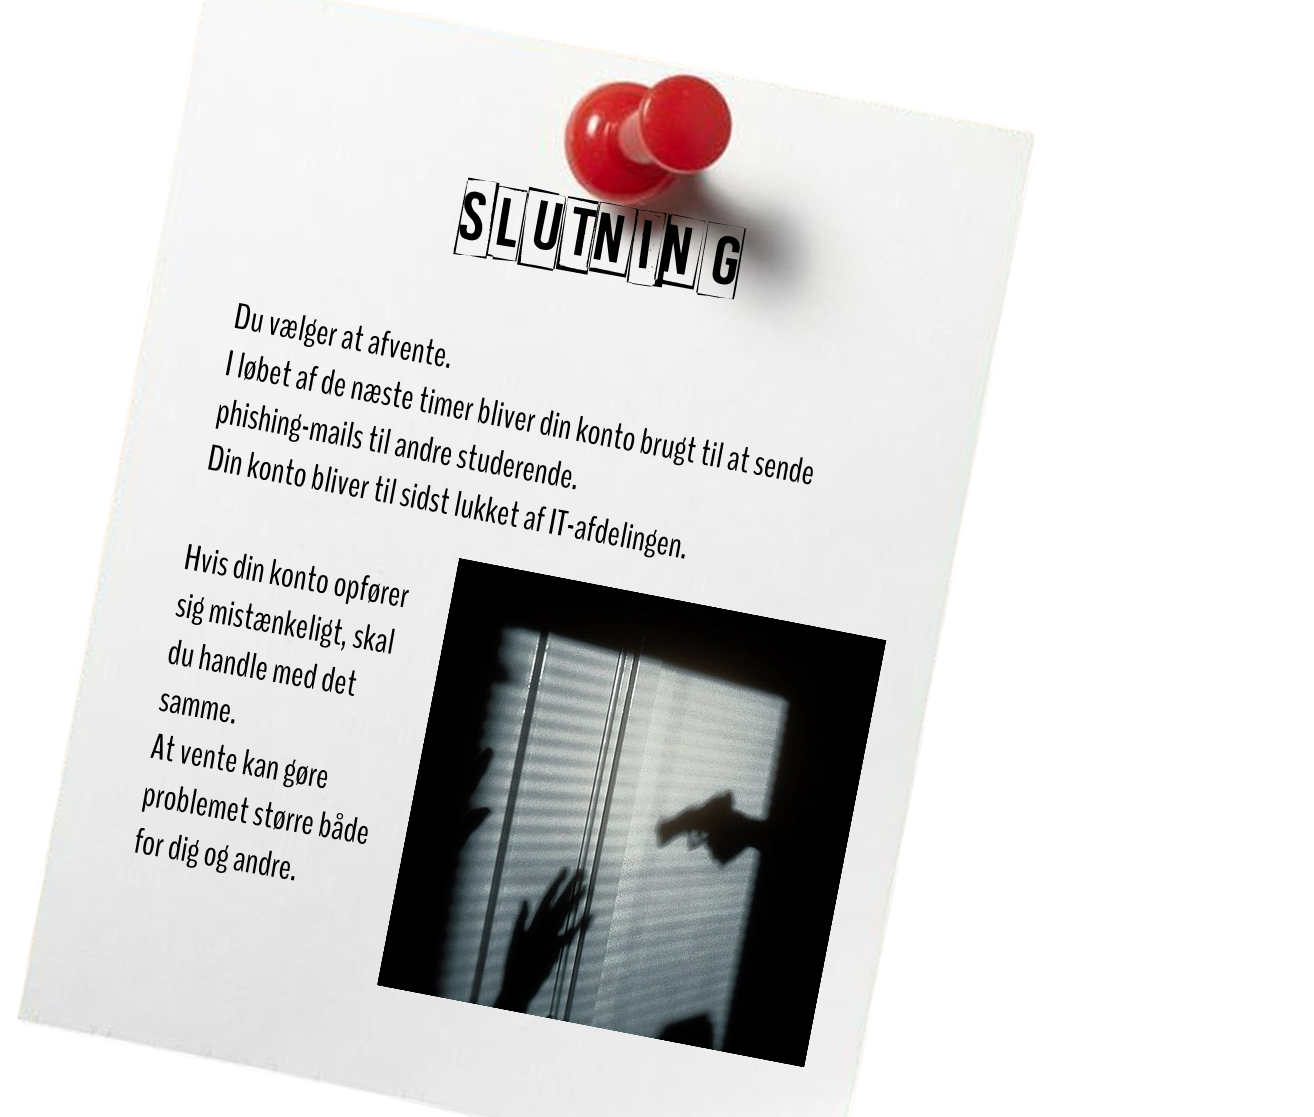
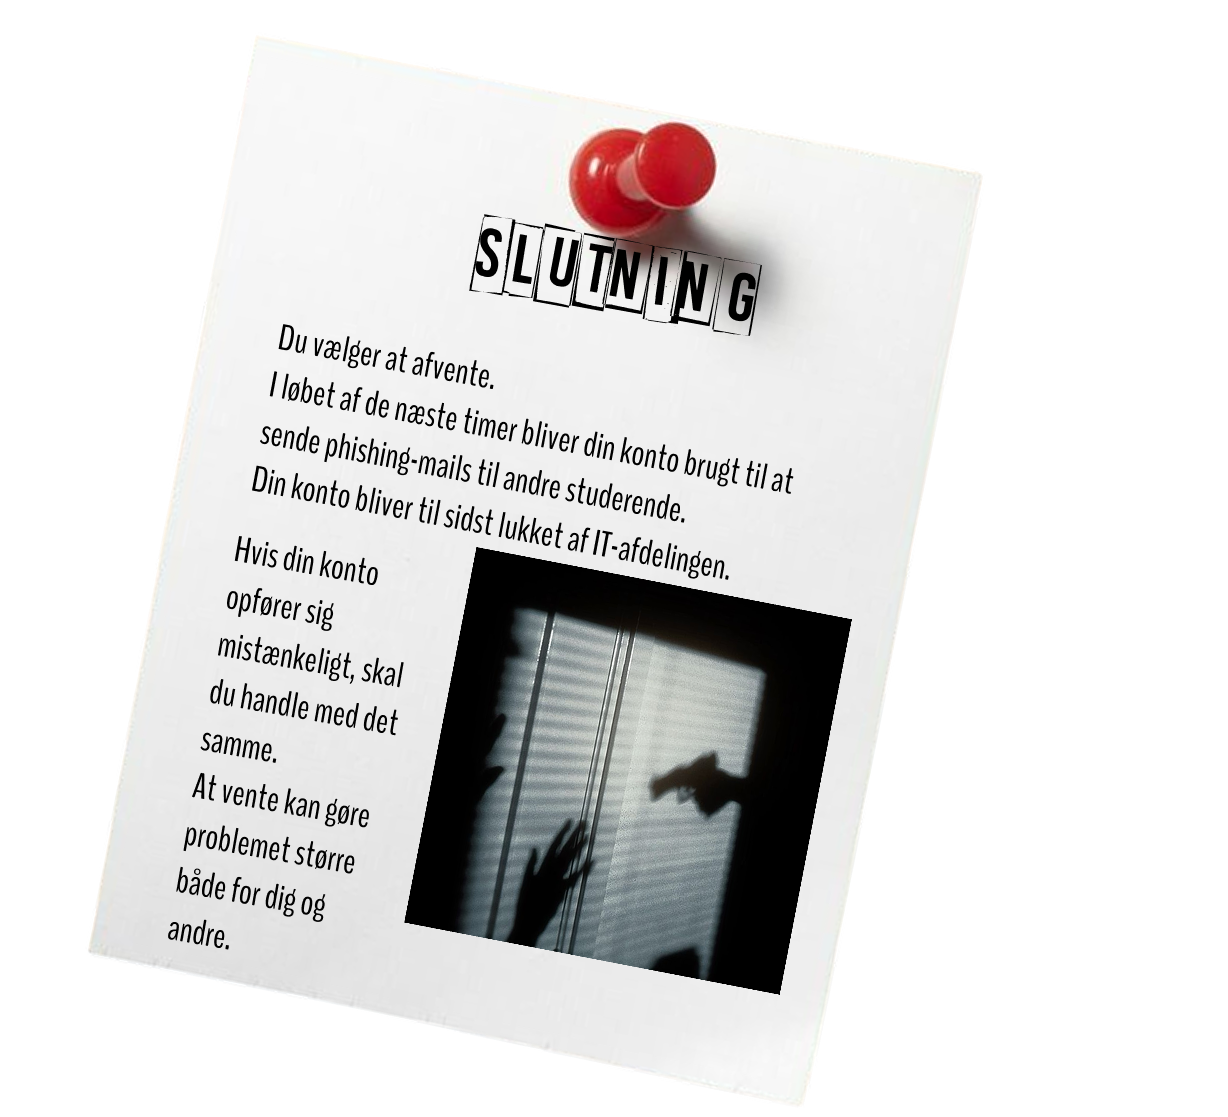
Tilføjelse af sticky notes

diff --git a/scss.css/style.scss b/scss.css/style.scss
@@ -110,25 +110,20 @@ body {
   transition: transform 0.2s ease, box-shadow 0.2s ease, opacity 0.2s ease;
 
   // KNAPPENÅL PÅ ALLE KNAPPER
-&::before {
-  content: "";
-
-  position: absolute;
-
-  width: 140px;
-  height: 140px;
-
- top: -85px;
-left: -32px;
-
-  background-image: url("../img/knappenaal.png");
-  background-repeat: no-repeat;
-  background-position: center;
-  background-size: 100%;
-
-  pointer-events: none;
-  z-index: 10;
-}
+  &::before {
+    content: "";
+    position: absolute;
+    width: 140px;
+    height: 140px;
+    top: -85px;
+    left: -32px;
+    background-image: url("../img/knappenaal.png");
+    background-repeat: no-repeat;
+    background-position: center;
+    background-size: 100%;
+    pointer-events: none;
+    z-index: 10;
+  }
 
   &:hover {
     transform: scale(1.06);
@@ -144,14 +139,37 @@ left: -32px;
   }
 }
 
-// SLUTNINGER — bruger samme layout for nu
+// STICKY NOTES TIL SLUTNINGER
+.scene__sticky {
+  position: absolute;
+  right: 8%;
+  top: 22%;
+  width: 330px;
+  max-width: 30vw;
+  z-index: 3;
+}
+
+// SLUTNINGER
 .scene--endingA1,
 .scene--endingA2,
 .scene--endingB1,
 .scene--endingB2 {
+  .scene__image {
+    left: 8%;
+    max-width: 48vw;
+    max-height: 76vh;
+  }
+
+  .scene__sticky {
+    right: 8%;
+    top: 20%;
+  }
+
   .scene__buttons {
-    left: 68%;
-    top: 58%;
+    left: auto;
+    right: 13%;
+    top: 72%;
+    transform: none;
   }
 }
 
@@ -171,6 +189,11 @@ left: -32px;
     min-width: 180px;
     font-size: 14px;
     padding: 10px 18px;
+  }
+
+  .scene__sticky {
+    width: 220px;
+    right: 5%;
   }
 
   .scene--start {

diff --git a/scss.css/script.js b/scss.css/script.js
@@ -38,6 +38,7 @@ const scenes = {
 
   endingA1: {
     image: "img/slutning.a1.png",
+    sticky: "img/stickynote.a1.png",
     background: "cork-bg",
     choices: [
       { text: "Prøv igen", nextScene: "start" }
@@ -46,6 +47,7 @@ const scenes = {
 
   endingA2: {
     image: "img/slutning.a2.png",
+    sticky: "img/stickynote.a2.png",
     background: "cork-bg",
     choices: [
       { text: "Prøv igen", nextScene: "start" }
@@ -54,6 +56,7 @@ const scenes = {
 
   endingB1: {
     image: "img/slutning.b1.png",
+    sticky: "img/stickynote.b1.png",
     background: "cork-bg",
     choices: [
       { text: "Prøv igen", nextScene: "start" }
@@ -62,6 +65,7 @@ const scenes = {
 
   endingB2: {
     image: "img/slutning.b2.png",
+    sticky: "img/stickynote.b2.png",
     background: "cork-bg",
     choices: [
       { text: "Prøv igen", nextScene: "start" }
@@ -84,6 +88,8 @@ function renderScene(sceneKey) {
   sceneContainer.innerHTML = `
     <div class="scene__wrapper">
       <img class="scene__image" src="${currentScene.image}" alt="">
+
+      ${currentScene.sticky ? `<img class="scene__sticky" src="${currentScene.sticky}" alt="">` : ""}
 
       <div class="scene__buttons">
         ${buttonsHTML}

diff --git a/scss.css/style.css b/scss.css/style.css
@@ -119,12 +119,38 @@ body {
   display: none;
 }
 
+.scene__sticky {
+  position: absolute;
+  right: 8%;
+  top: 22%;
+  width: 330px;
+  max-width: 30vw;
+  z-index: 3;
+}
+
+.scene--endingA1 .scene__image,
+.scene--endingA2 .scene__image,
+.scene--endingB1 .scene__image,
+.scene--endingB2 .scene__image {
+  left: 8%;
+  max-width: 48vw;
+  max-height: 76vh;
+}
+.scene--endingA1 .scene__sticky,
+.scene--endingA2 .scene__sticky,
+.scene--endingB1 .scene__sticky,
+.scene--endingB2 .scene__sticky {
+  right: 8%;
+  top: 20%;
+}
 .scene--endingA1 .scene__buttons,
 .scene--endingA2 .scene__buttons,
 .scene--endingB1 .scene__buttons,
 .scene--endingB2 .scene__buttons {
-  left: 68%;
-  top: 58%;
+  left: auto;
+  right: 13%;
+  top: 72%;
+  transform: none;
 }
 
 @media (max-width: 900px) {
@@ -140,6 +166,10 @@ body {
     min-width: 180px;
     font-size: 14px;
     padding: 10px 18px;
+  }
+  .scene__sticky {
+    width: 220px;
+    right: 5%;
   }
   .scene--start .scene__image {
     max-width: 390px;
